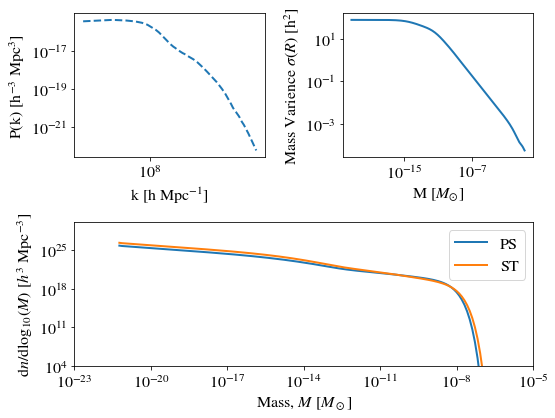
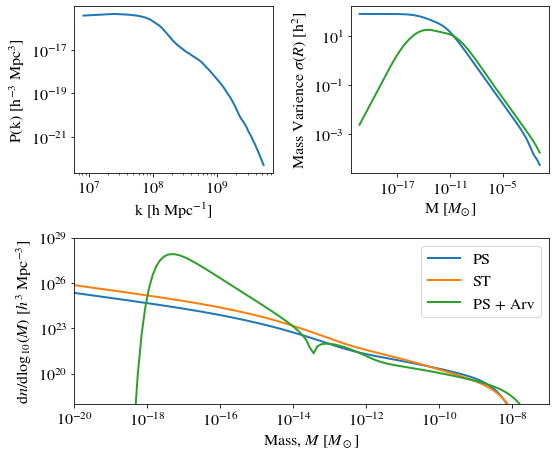
Added Arvanitaki window function

diff --git a/ps_toolkit/hmf.py b/ps_toolkit/hmf.py
@@ -87,6 +87,16 @@ def fit_TK(sigma, z, cosmo):
     
     return A*((b / sigma) ** a + 1) * np.exp(- c / sigma**2)
 
+def NormArvanitaki(R, n=1000):
+    kmax = np.pi/R
+    k = np.logspace(np.log10(kmax)-2, np.log10(kmax)+2, n)
+    N = (np.trapz(np.exp(-np.log(k*R)/np.pi), np.log(k)))**(-1/2)
+    return N
+
+def WindowArvanitaki(R, k, N):
+    W = N*np.exp(-(np.log(k*R/np.pi)**2))
+    return W
+
 def mass_variance(pspec, k, radii, cosmo,
                   filter_mode = 'tophat', printOutput = False):
     '''
@@ -105,17 +115,22 @@ def mass_variance(pspec, k, radii, cosmo,
         for i in range(len(radii)):
             W_th = 3*(np.sin(k*radii[i])-k*radii[i]*np.cos(k*radii[i]))/(k*radii[i])**3
             sigma[i] = np.sqrt(1/(2*np.pi**2)*np.trapz(pspec.val(k)*k**2*W_th**2, x=k))
+    elif filter_mode == 'Arvanitaki':
+        for i in range(len(radii)):
+            W_Arvanitaki = WindowArvanitaki(radii[i], k, NormArvanitaki(radii[i]))
+            sigma[i] = np.sqrt(1/(2*np.pi**2)*np.trapz(pspec.val(k)*k**2*W_Arvanitaki**2, x=k))
     else:
         print("ERROR: Unexpected filter mode.")
         
     return sigma, masses
 
     
-def PS_HMF(P0, 
+def PS_HMF(P0, # linear power spectrum at z=0
            k, 
            input_cosmo = "default", 
            z=0, 
-           mode = 'PS', 
+           mode = 'PS', # PS or ST
+           filter_mode = "tophat",
            printOutput = False, 
            epsilon = 1.686, 
            krange = None,
@@ -166,7 +181,7 @@ def PS_HMF(P0,
         print("Min R = {}, max R = {}".format(min(R), max(R)))
         
     sigma0, M = mass_variance(pspec, k2, R, cosmo, 
-                              filter_mode = 'tophat',
+                              filter_mode = filter_mode,
                               printOutput = printOutput)
     
     if printOutput == True:

diff --git a/ps_toolkit/cosmology.py b/ps_toolkit/cosmology.py
@@ -10,10 +10,13 @@ default = {"h" : 0.7,
         "omega_m" : 0.3,
         "omega_r" : 8.486e-5}
 
+# units and contants
 units = {"G" : 6.674e-11, # m^3 kg^(-1) s^(-2)
+         "c" : 299792458, # m / s
          "Msol" : 1.988e30, # kg
          "Mpc" : 3.086e22, # m 
-         "Mpcpkm" : 1/(3.0869e19)
+         "Mpcpkm" : 1/(3.0869e19), 
+         "hbar_eVs": 6.58e10-16 # eV s
          }
 #6.674×10−11 m3⋅kg−1⋅s−2.
 
@@ -22,6 +25,8 @@ class Cosmology:
     def __init__(self,
                  cosmology = "default"):
         self.cosmology = cosmology
+        self.units = units
+        
         # standard constants
         if cosmology == "planck15":
             self.h = planck15["h"]

diff --git a/README.md b/README.md
@@ -12,6 +12,10 @@ matplotlib.rc('font', size=16)
 import ps_toolkit.hmf as hmf
 ```
 
+    Loaded PS module.
+    
+    
+
 
 ```python
 # load power-spectrum
@@ -24,16 +28,22 @@ HMF_PS, M, f_PS, sigma, _ = hmf.PS_HMF(P, k, z=99, mode = 'PS')
 # Sheth-Torman fitting function
 HMF_ST, M, f_ST, sigma, _ = hmf.PS_HMF(P, k, z=99, mode = 'ST')
 
+# Press-Schechter fitting function + Arvanitaki window function
+HMF_Arv, M, f_Arv, sigma_Arv, _ = hmf.PS_HMF(P, k, z=99, mode = 'PS', filter_mode = "Arvanitaki") 
+
+
+
 # Plot powerspectrum
 fig = plt.figure(figsize = (8,6))
 ax1 = fig.add_subplot(221)
-ax1.loglog(k, P, '--',lw=2)
+ax1.loglog(k, P, '-',lw=2)
 ax1.set_xlabel("k [h Mpc$^{-1}$]");
 ax1.set_ylabel("P(k) [h$^{-3}$ Mpc$^{3}$]");
 
 # Plot Mass Varience
 ax2 = fig.add_subplot(222)
 ax2.loglog(M, sigma,'-',linewidth=2)
+ax2.loglog(M, sigma_Arv,'-',linewidth=2, color = "tab:green")
 ax2.set_ylabel("Mass Varience $\sigma(R)$ [h$^2$]");
 ax2.set_xlabel("M [$M_{\odot}$]");
 #ax2.set_xlim([1e-21, 1e-7])
@@ -43,16 +53,19 @@ plt.tight_layout()
 ax3 = fig.add_subplot(212)
 ax3.loglog(M, HMF_PS,'-',linewidth=2, label = "PS")
 ax3.loglog(M, HMF_ST,'-',linewidth=2, label = "ST")
+ax3.loglog(M, HMF_Arv,'-',linewidth=2, label = "PS + Arv")
 ax3.set_xlabel(r"Mass, $M$ [$M_\odot$]");
 ax3.set_ylabel(r"$\mathrm{d}n/\mathrm{d }\log_{10}(M)$ [$h^3$ Mpc$^{-3}$]");
-ax3.set_ylim([1e4, 1e30])
-ax3.set_xlim([1e-23, 1e-5])
+ax3.set_ylim([1e18, 1e29])
+ax3.set_xlim([1e-20, 1e-7])
 plt.legend()
-plt.tight_layout()
+plt.savefig("example.pdf", bbox_inches = "tight")
 ```
 
 
+    
 ![png](output_2_0.png)
+    
 
 
 
